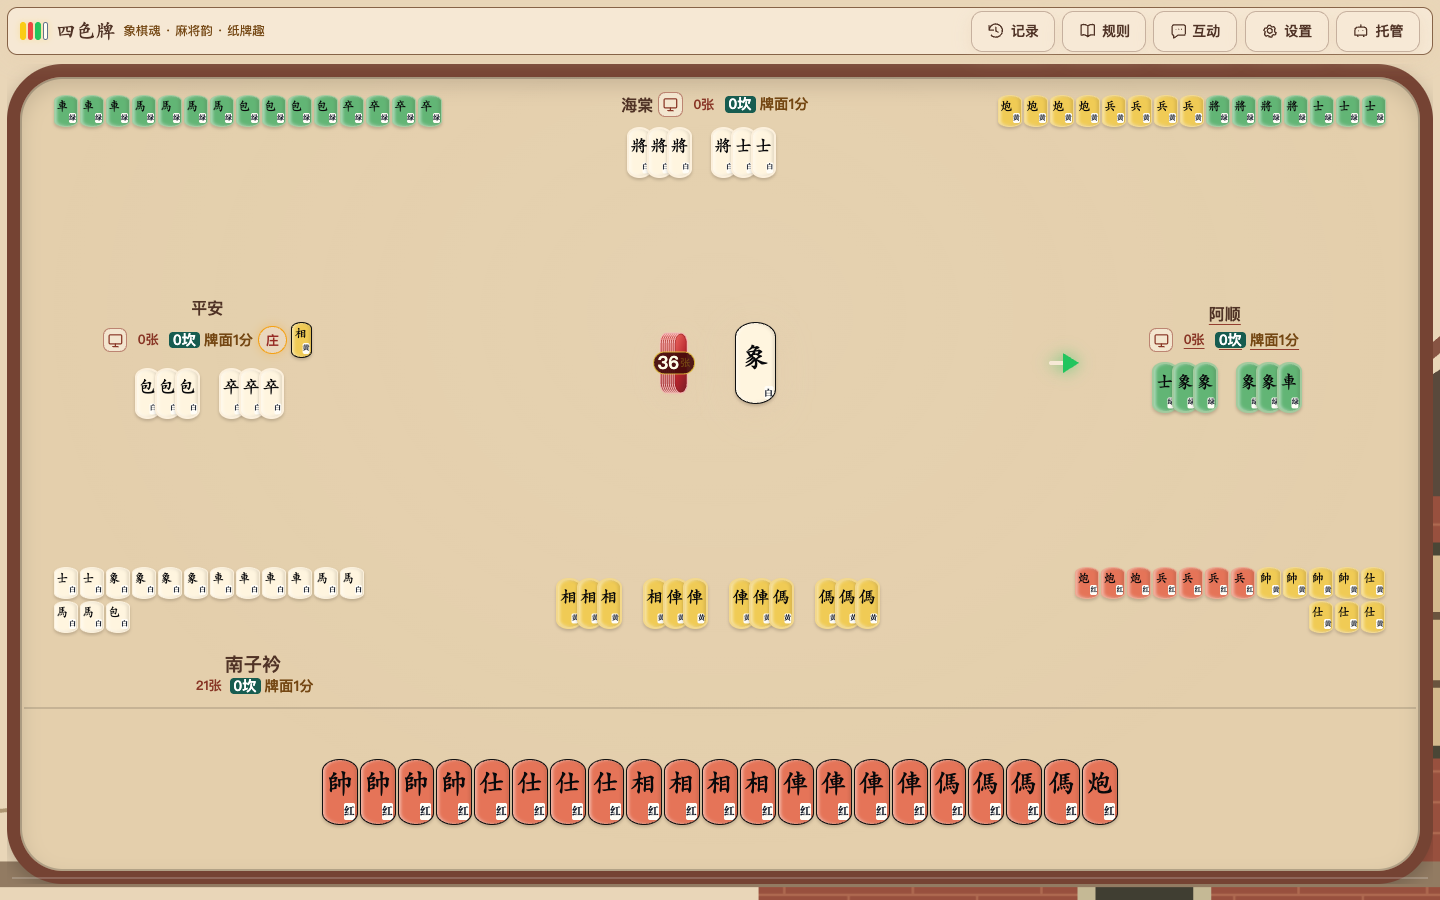
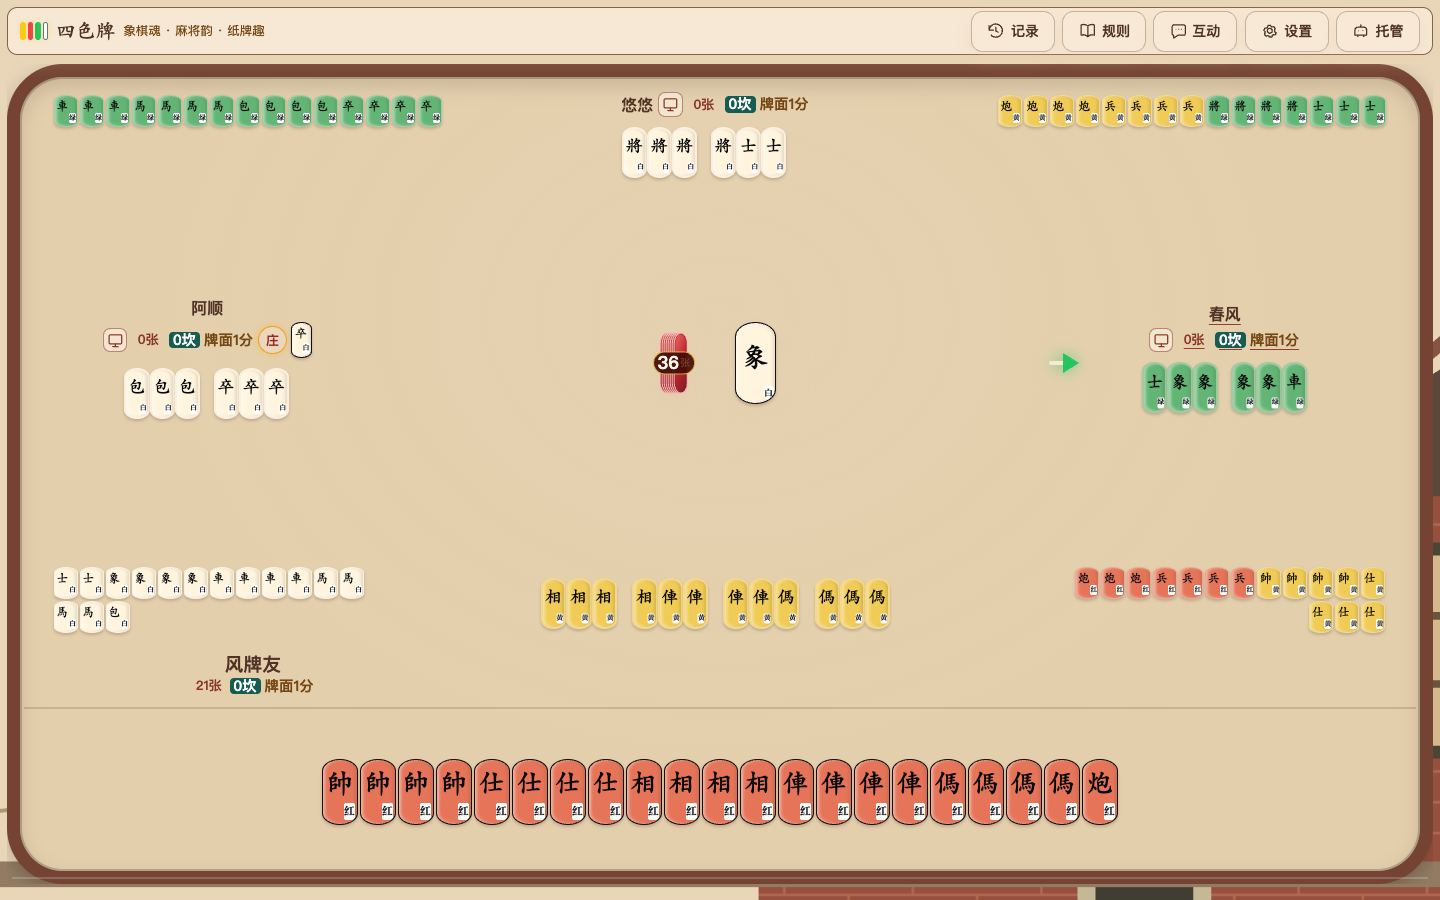
fix(ui): keep adjacent meld cards from covering assistance labels

diff --git a/tests/e2e/mahjong-appearance.spec.ts b/tests/e2e/mahjong-appearance.spec.ts
@@ -544,8 +544,11 @@ for (const layout of ['classic', 'compact', 'mahjong', 'adaptive']) {
           const text = range.getBoundingClientRect(), badge = seal.getBoundingClientRect();
           range.selectNodeContents(seal);
           const badgeText = range.getBoundingClientRect();
-          return inside(text, bounds) && inside(badge, bounds) && inside(badgeText, bounds) && !overlaps(text, badgeText) && parseFloat(getComputedStyle(seal).fontSize) >= 7
-            ? [] : [{ id: card.dataset.faceId, class: card.className, text: text.toJSON(), badge: badge.toJSON(), badgeText: badgeText.toJSON(), bounds: bounds.toJSON() }];
+          const siblings = [...card.parentElement!.children];
+          const covered = siblings.slice(siblings.indexOf(card) + 1).filter(el => el.classList.contains('card'))
+            .some(el => overlaps(el.getBoundingClientRect(), text) || overlaps(el.getBoundingClientRect(), badgeText));
+          return !covered && inside(text, bounds) && inside(badge, bounds) && inside(badgeText, bounds) && !overlaps(text, badgeText) && parseFloat(getComputedStyle(seal).fontSize) >= 7
+            ? [] : [{ id: card.dataset.faceId, class: card.className, covered, text: text.toJSON(), badge: badge.toJSON(), badgeText: badgeText.toJSON(), bounds: bounds.toJSON() }];
         });
         const command = board.querySelector('.self-command-row')!.getBoundingClientRect();
         const zones = [...board.querySelectorAll('.player-card, .self-groups-card')];

diff --git a/client/src/components/GameBoard.vue.js b/client/src/components/GameBoard.vue.js
@@ -2311,6 +2311,12 @@ let __VLS_directives;
 /** @type {__VLS_StyleScopedClasses['mini-card-strip']} */ ;
 /** @type {__VLS_StyleScopedClasses['mini-card-strip']} */ ;
 /** @type {__VLS_StyleScopedClasses['mode-long']} */ ;
+/** @type {__VLS_StyleScopedClasses['board']} */ ;
+/** @type {__VLS_StyleScopedClasses['mini-card-strip']} */ ;
+/** @type {__VLS_StyleScopedClasses['card']} */ ;
+/** @type {__VLS_StyleScopedClasses['mini-card']} */ ;
+/** @type {__VLS_StyleScopedClasses['card']} */ ;
+/** @type {__VLS_StyleScopedClasses['mini-card']} */ ;
 /** @type {__VLS_StyleScopedClasses['mini-card']} */ ;
 /** @type {__VLS_StyleScopedClasses['mini-card-strip']} */ ;
 /** @type {__VLS_StyleScopedClasses['stacked']} */ ;

diff --git a/client/src/components/GameBoard.vue b/client/src/components/GameBoard.vue
@@ -3889,7 +3889,12 @@ watch(() => [props.tableLayout, props.tableCardMode, props.ownCardMode, flights.
   padding-right: 0.22rem;
 }
 
-.mini-card-strip.mode-long .mini-card + .mini-card {
+.mini-card-strip.mode-long .mini-card + /* Assisted names and corner labels must remain visible between adjacent cards. */
+:global(html.show-card-color-assist .board .mini-card-strip .card.mini-card + .card.mini-card) {
+  margin-left: 0;
+}
+
+.mini-card {
   margin-left: -0.32rem;
 }
 

diff --git a/docs/APPEARANCE.md b/docs/APPEARANCE.md
@@ -55,4 +55,4 @@
 
 颜色辅助开启时，牌名与颜色字共用牌面内部的阅读区：保留一个完整牌名，颜色字位于玩家阅读方向的右下角；极短牌面把颜色字放在牌名旁的空角，避免继续缩小牌名。关闭后恢复长条牌的双端牌名。阅读区随牌框反向旋转，辅助字在四边流水和飞牌中保持方向一致。
 
-辅助开关不改变手牌、明示牌、流水或响应牌的外部尺寸，麻将牌组也不因辅助字增高。密集牌组仍按既有规则换行、缩放与滚动。`mahjong-appearance.spec.ts` 覆盖四种布局 × 两种牌型，以及 640×350、568×320、667×375、375×667、844×390、1024×768、1440×900，测量实际字形范围、辅助字边界和操作栏遮挡，并检查开关前后牌面尺寸一致。
+辅助开关不改变手牌、明示牌、流水或响应牌的外部尺寸，麻将牌组也不因辅助字增高。开启辅助时明示牌取消横向叠压，避免后一张牌遮住前一张的角标；牌组沿用现有换行与滚动区域。密集牌组仍按既有规则换行、缩放与滚动。`mahjong-appearance.spec.ts` 覆盖四种布局 × 两种牌型，以及 640×350、568×320、667×375、375×667、844×390、1024×768、1440×900，测量实际字形范围、辅助字边界和操作栏遮挡，并检查开关前后牌面尺寸一致。

diff --git a/docs/validation/color-assistance/README.md b/docs/validation/color-assistance/README.md
@@ -17,6 +17,6 @@ npm run build
 PLAYWRIGHT_CHANNEL=chrome npx playwright test --project=chromium tests/e2e/mahjong-appearance.spec.ts -g 'global assistance|color assistance keeps|assisted .*flights'
 ```
 
-12/12 通过。覆盖四种布局、两种牌型及 640×350、568×320、667×375、375×667、844×390、1024×768、1440×900；测量牌名与颜色字实际字形的边界、操作栏遮挡、同帧辅助开关尺寸和旋转飞牌落点。另覆盖 28 组明示牌在各席位的滚动可达性。
+12/12 通过。覆盖四种布局、两种牌型及 640×350、568×320、667×375、375×667、844×390、1024×768、1440×900；测量牌名与颜色字实际字形的边界、相邻牌遮挡、操作栏遮挡、同帧辅助开关尺寸和旋转飞牌落点。另覆盖 28 组明示牌在各席位的滚动可达性。
 
 这些截图仅代表所列场景；完整 Chromium / WebKit 回归结果以 PR 当前提交的 CI 为准。
